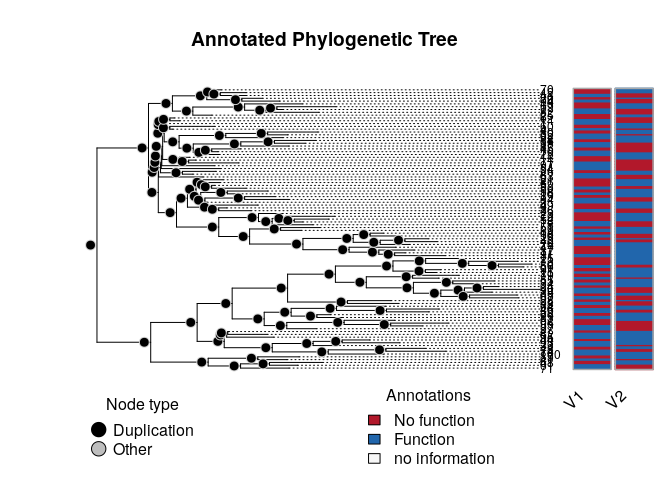
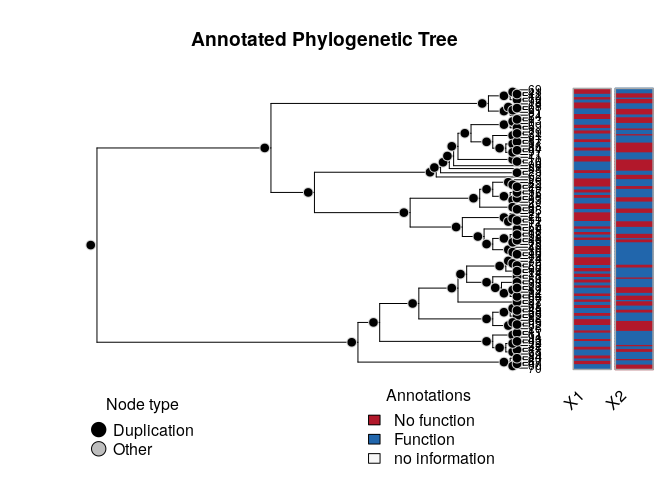
Updating read mode of geese class.

Changed region(s): [[0.1875, 0.1562, 0.8438, 0.7812], [0.9062, 0.8125, 0.9375, 0.8438], [0.8438, 0.8125, 0.875, 0.8438]]

diff --git a/inst/include/barry/models/geese/geese-meat-constructors.hpp b/inst/include/barry/models/geese/geese-meat-constructors.hpp
@@ -43,22 +43,23 @@ inline Geese::Geese(
     for (unsigned int i = 0u; i < geneid.size(); ++i) {
 
         // Temp vector with the annotations
-        std::vector< unsigned int > funs(annotations.at(i));
+        std::vector< unsigned int > & funs(annotations.at(i));
 
+        // Case 1: Not the root node, and the parent does not exists
         if ((parent.at(i) >= 0) && (nodes.find(parent.at(i)) == nodes.end())) {
 
             // Adding parent
             auto key_par = nodes.insert({
                 parent.at(i),
-                Node(parent.at(i), true)
+                Node(parent.at(i), UINT_MAX, true)
             });
 
-            // Adding offspring
+            // Case 1a: i does not exists
             if (nodes.find(geneid.at(i)) == nodes.end()) {
 
                 auto key_off = nodes.insert({
                     geneid.at(i),
-                    Node(geneid.at(i), funs, duplication.at(i))
+                    Node(geneid.at(i), i, funs, duplication.at(i))
                     });
 
                 // Adding the offspring to the parent
@@ -68,15 +69,16 @@ inline Geese::Geese(
 
                 // Adding the parent to the offspring
                 key_off.first->second.parent = &key_par.first->second;
-                key_off.first->second.annotations = funs;
-                key_off.first->second.duplication = duplication.at(i);
+                // key_off.first->second.annotations = funs;
+                // key_off.first->second.duplication = duplication.at(i);
 
-            } else {
+            } else { // Case 1b: i does exists (we saw it earlier)
 
                 // We just need to make sure that we update it!
                 nodes[geneid.at(i)].duplication = duplication.at(i);
                 nodes[geneid.at(i)].annotations = funs;
                 nodes[geneid.at(i)].parent      = &nodes[parent.at(i)];
+                nodes[geneid.at(i)].ord         = i;
 
                 nodes[parent.at(i)].offspring.push_back(
                     &nodes[geneid.at(i)]
@@ -84,49 +86,59 @@ inline Geese::Geese(
 
             }
 
-        } else {
-            // In this case, the parent exists, so we only need to assing the
-            // offspring
-            // Adding offspring
+        } else { // Case 2: Either this is the root, or the parent does exists
 
-            // Does the offspring exist?
+            // Case 2a: i does not exists (but its parent does)
             if (nodes.find(geneid.at(i)) == nodes.end()) {
 
+                // Adding i
                 auto key_off = nodes.insert({
                     geneid.at(i),
-                    Node(geneid.at(i), funs, duplication.at(i))
+                    Node(geneid.at(i), i, funs, duplication.at(i))
                     });
 
-                // Adding the offspring to the parent
+                // We only do this if this is not the root
                 if (parent.at(i) >= 0) {
+
                     nodes[parent.at(i)].offspring.push_back(
                         &key_off.first->second
                     );
 
                     // Adding the parent to the offspring
                     key_off.first->second.parent = &nodes[parent.at(i)];
+
                 }
 
-                key_off.first->second.annotations = funs;
-                key_off.first->second.duplication = duplication.at(i);
+                // key_off.first->second.annotations = funs;
+                // key_off.first->second.duplication = duplication.at(i);
 
-            } else {
+            } else { // Case 2b: i does exists (and so does its parent)
 
                 // We just need to make sure that we update it!
                 nodes[geneid.at(i)].duplication = duplication.at(i);
                 nodes[geneid.at(i)].annotations = funs;
+                nodes[geneid.at(i)].ord         = i;
 
                 if (parent.at(i) >= 0) {
+
                     nodes[geneid.at(i)].parent = &nodes[parent.at(i)];
                     nodes[parent.at(i)].offspring.push_back(
                         &nodes[geneid.at(i)]
                     );
+
                 }
 
             }
         }
 
     }
+
+    // Verifying that all have the variable ord
+    for (auto& n : nodes) {
+        if (n.second.ord == UINT_MAX)
+            throw std::logic_error("One of the nodes was passed along.");
+    }
+
 
     // Computing the pruning sequence.
     calc_sequence();

diff --git a/inst/include/barry/models/geese/geese-node-bones.hpp b/inst/include/barry/models/geese/geese-node-bones.hpp
@@ -10,7 +10,10 @@
  */
 class Node {
 public:
-    unsigned int                 id;
+
+    unsigned int id; ///< Id of the node (as specified in the input)
+    unsigned int ord; ///< Order in which the node was created
+
     phylocounters::PhyloArray array;
     std::vector< unsigned int >              annotations;         ///< Observed annotations (only defined for Geese)
     bool                                     duplication;
@@ -30,9 +33,9 @@ public:
      */
     ///@{
     
-    Node() {};
-    Node(unsigned int id_, bool duplication_);
-    Node(unsigned int id_, std::vector< unsigned int > annotations_, bool duplication_);
+    Node() : ord(UINT_MAX) {};
+    Node(unsigned int id_, unsigned int ord_, bool duplication_);
+    Node(unsigned int id_, unsigned int ord_, std::vector< unsigned int > annotations_, bool duplication_);
     
     // Move constructor
     Node(Node && x) noexcept;
@@ -49,21 +52,21 @@ public:
 
 };
 
-inline Node::Node(unsigned int id_, bool duplication_)
-    : id(id_), duplication(duplication_) {
+inline Node::Node(unsigned int id_, unsigned int ord_, bool duplication_)
+    : id(id_), ord(ord_), duplication(duplication_) {
 
     return;
 }
 
 inline Node::Node(
     unsigned int id_,
+    unsigned int ord_,
     std::vector< unsigned int > annotations_,
-    bool duplication_) :
-    id(id_), annotations(annotations_), duplication(duplication_) {
-}
+    bool duplication_
+    ) : id(id_), ord(ord_), annotations(annotations_), duplication(duplication_) {}
 
 inline Node::Node(Node && x) noexcept :
-    id(x.id), array(std::move(x.array)), annotations(std::move(x.annotations)),
+    id(x.id), ord(x.ord), array(std::move(x.array)), annotations(std::move(x.annotations)),
     duplication(x.duplication), arrays(std::move(x.arrays)),
     parent(std::move(x.parent)),
     offspring(std::move(x.offspring)),
@@ -77,7 +80,7 @@ inline Node::Node(Node && x) noexcept :
 }
 
 inline Node::Node(const Node & x) :
-    id(x.id), array(x.array), annotations(x.annotations),
+    id(x.id), ord(x.ord), array(x.array), annotations(x.annotations),
     duplication(x.duplication), arrays(x.arrays),
     parent(x.parent),
     offspring(x.offspring),

diff --git a/inst/include/barry/models/geese/geese-meat-simulate.hpp b/inst/include/barry/models/geese/geese-meat-simulate.hpp
@@ -49,7 +49,7 @@ inline std::vector< std::vector< unsigned int > > Geese::simulate(
     }
     
     // We now know the state of the root
-    res[nodes[preorder[0u]].id] =
+    res[nodes[preorder[0u]].ord] =
         vector_caster< unsigned int, bool>(states[idx]);
 
     // Going in the opposite direction
@@ -59,7 +59,7 @@ inline std::vector< std::vector< unsigned int > > Geese::simulate(
             continue;
 
         // Getting the state of the node      
-        unsigned int n = this->map_to_nodes[res[nodes[i].id]];
+        unsigned int n = map_to_nodes[res[nodes[i].ord]];
 
         // Given the state of the current node, sample the state of the
         // offspring, all based on the current state
@@ -67,7 +67,7 @@ inline std::vector< std::vector< unsigned int > > Geese::simulate(
 
         // Iterating through the offspring to assign the state
         for (unsigned int j = 0u; j < nodes[i].offspring.size(); ++j) {
-            res[nodes[i].offspring[j]->id] = tmp.get_col_vec(j, false);
+            res[nodes[i].offspring[j]->ord] = tmp.get_col_vec(j, false);
         }
 
     }

diff --git a/inst/include/barry/models/geese/geese-meat-predict.hpp b/inst/include/barry/models/geese/geese-meat-predict.hpp
@@ -57,7 +57,7 @@ inline std::vector< std::vector<double> > Geese::predict(
     }
 
     // Storing the final prob
-    res[nodes[preorder[0u]].id] = tmp_prob;
+    res[nodes[preorder[0u]].ord] = tmp_prob;
     
         // Going in the opposite direction
     for (auto& i : preorder) {
@@ -72,7 +72,7 @@ inline std::vector< std::vector<double> > Geese::predict(
         node.probability.resize(states.size(), 0.0);
 
         std::vector< double > zerovec(nfuns(), 0.0);
-        res[node.id] = zerovec;
+        res[node.ord] = zerovec;
 
         // Need to identify what is the position of the node with respect to
         // its siblings
@@ -150,7 +150,7 @@ inline std::vector< std::vector<double> > Geese::predict(
                         
         }
 
-        res[node.id] = tmp_prob;
+        res[node.ord] = tmp_prob;
 
     }
 

diff --git a/inst/include/barry/counters/phylo.hpp b/inst/include/barry/counters/phylo.hpp
@@ -924,8 +924,7 @@ inline void counter_neofun_a2b(
  * function B is gained as a new featured leveraging what function A already does;
  * without losing function A. The sufficient statistic is defined as follows:
  * \f[
- * x_{pa}(1 - x_{pb})\sum_{i<j}{x_{ia}^p(1 - x_{ib}^p)x_{ja}^px_{jb}^p +
- * x_{ja}^p(1 - x_{jb}^p)x_{ia}^px_{ib}^p
+ * x_{pa}(1 - x_{pb})\sum_{i<j}\left[x_{ia}^p(1 - x_{ib}^p)x_{ja}^px_{jb}^p + x_{ja}^p(1 - x_{jb}^p)x_{ia}^px_{ib}^p\right]
  * \f]
  * This algorithm implements the change statistic.
  */

diff --git a/inst/include/barry/typedefs.hpp b/inst/include/barry/typedefs.hpp
@@ -8,6 +8,7 @@
 #include <cmath>
 #include <map>
 #include <random>
+#include <climits>
 
 
 

diff --git a/README.md b/README.md
@@ -83,9 +83,12 @@ We can now visualize either of the annotations using the
 ``` r
 library(aphylo)
 #> Loading required package: ape
-ap <- new_aphylo(
-  tree           = {set.seed(31);aphylo::sim_tree(n)},
-  tip.annotation = as.data.frame(do.call(rbind, fake1[1:n]))
+ap <- aphylo_from_data_frame(
+  tree        = as.phylo(tree), 
+  annotations = data.frame(
+    id = c(tree[, 2], n),
+    do.call(rbind, fake1)
+    )
 )
 plot(ap)
 ```
@@ -97,7 +100,7 @@ plot(ap)
 ``` r
 # Creating the object
 amodel <- new_geese(
-  annotations = fake1[c(tree[, 2], n) + 1],
+  annotations = fake1,
   geneid      = c(tree[, 2], n),
   parent      = c(tree[, 1],-1),
   duplication = duplication
@@ -203,7 +206,7 @@ flock <- new_flock()
 # Adding first set of annotations
 add_geese(
   flock,
-  annotations = fake1[c(tree[, 2], n) + 1],
+  annotations = fake1,
   geneid      = c(tree[, 2], n),
   parent      = c(tree[, 1],-1),
   duplication = duplication  
@@ -212,7 +215,7 @@ add_geese(
 # Now the second set
 add_geese(
   flock,
-  annotations = fake2[c(tree[, 2], n) + 1],
+  annotations = fake2,
   geneid      = c(tree[, 2], n),
   parent      = c(tree[, 1],-1),
   duplication = duplication  
